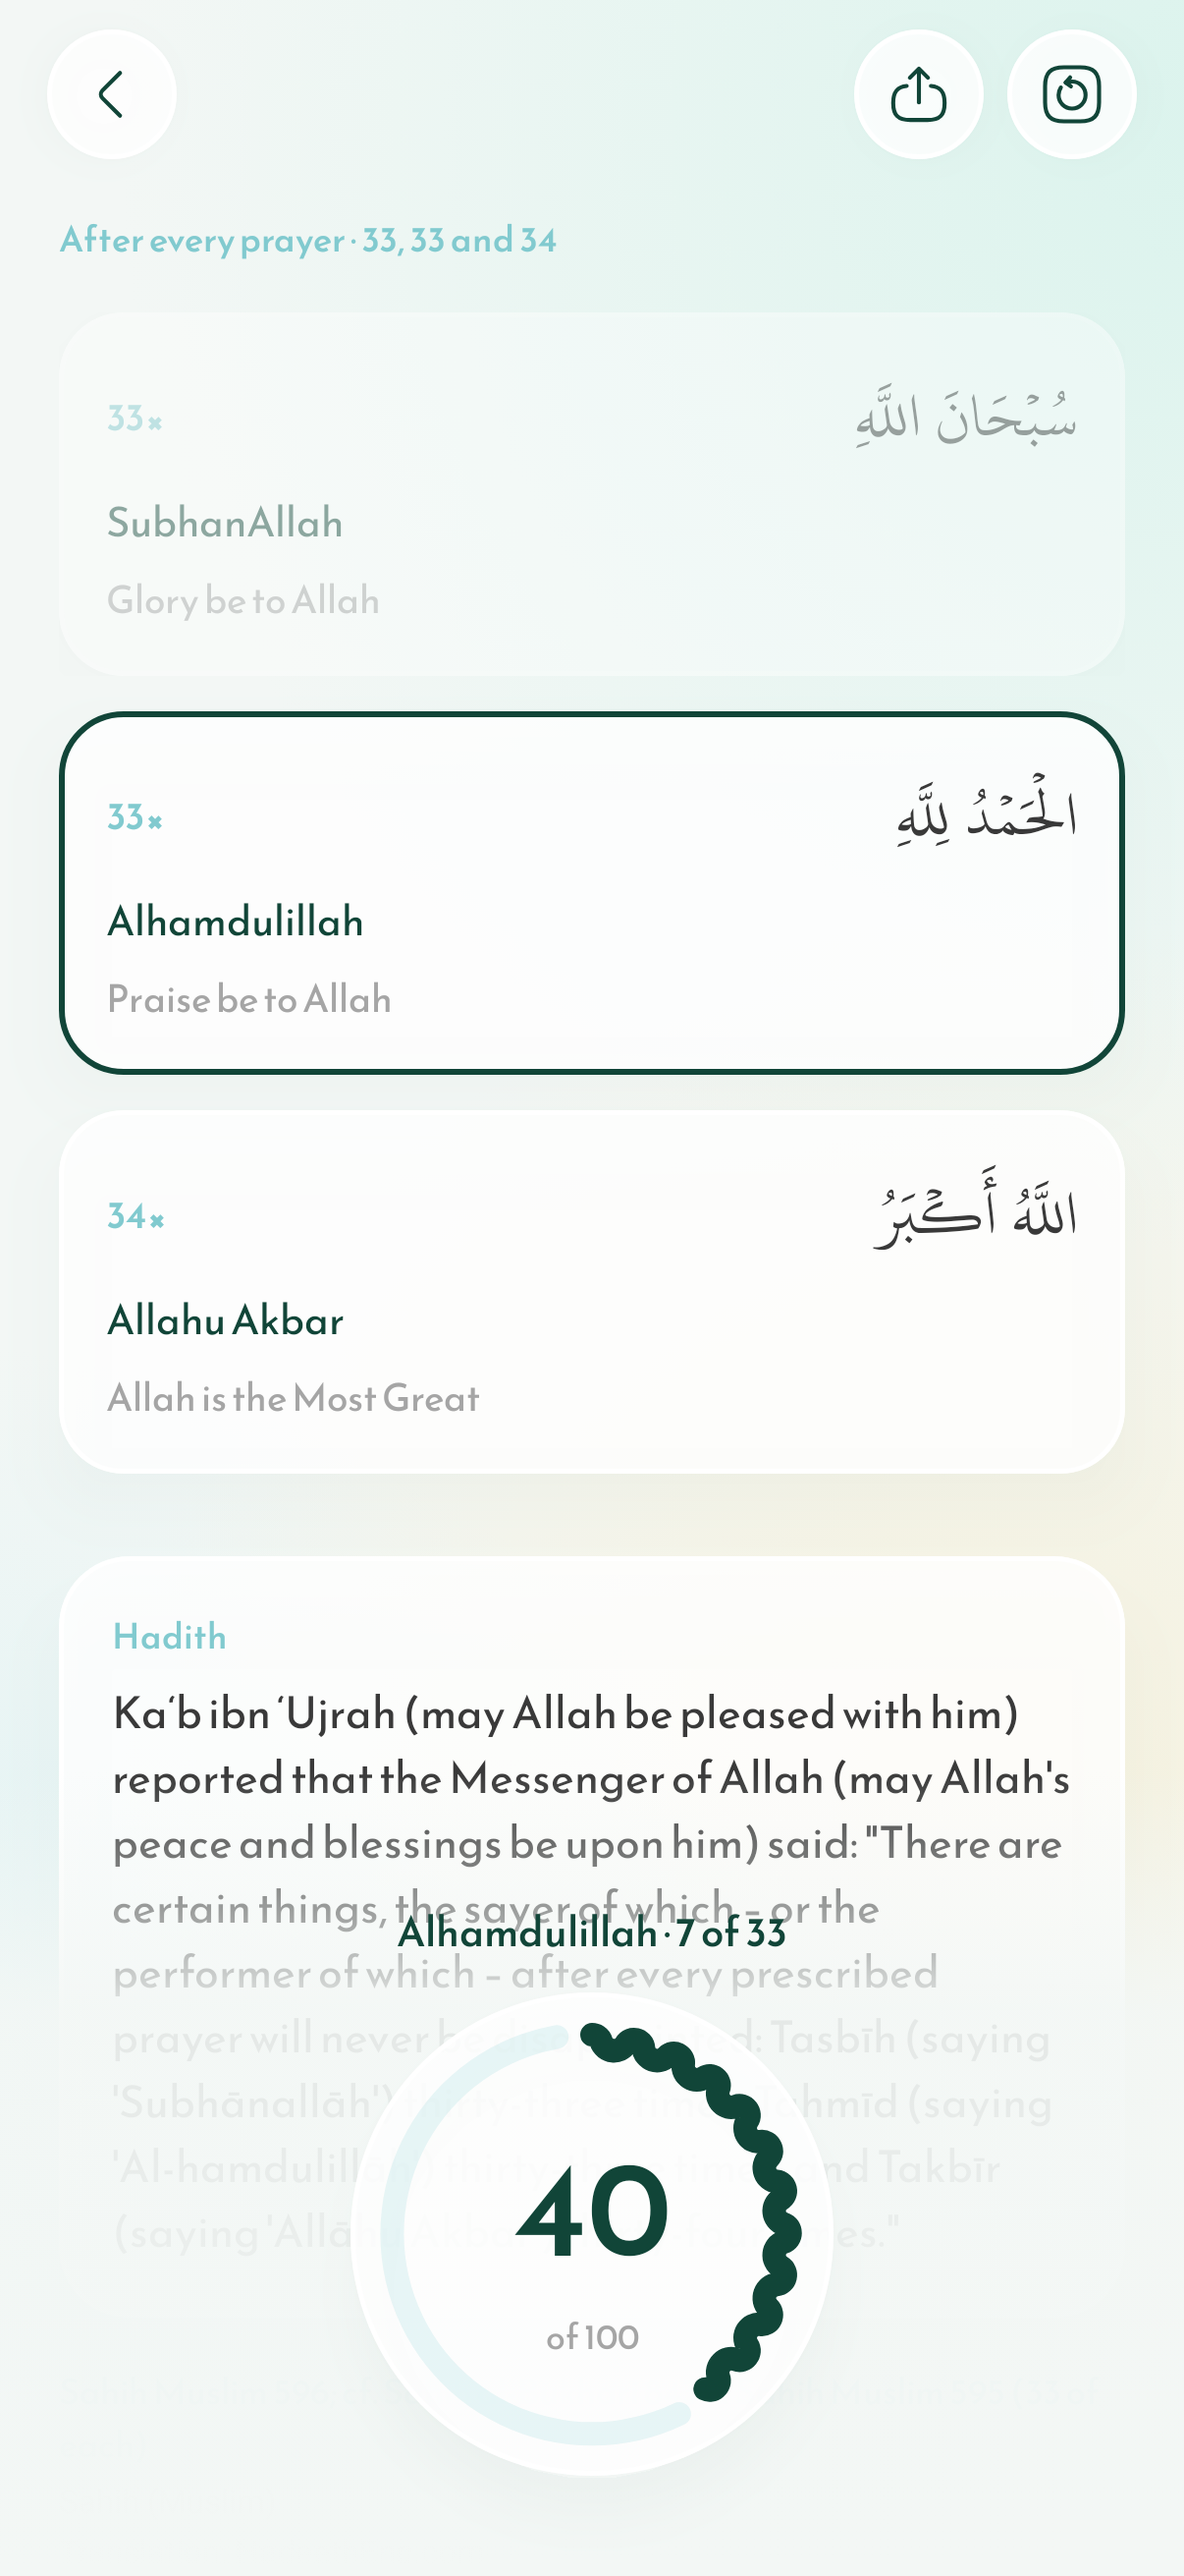
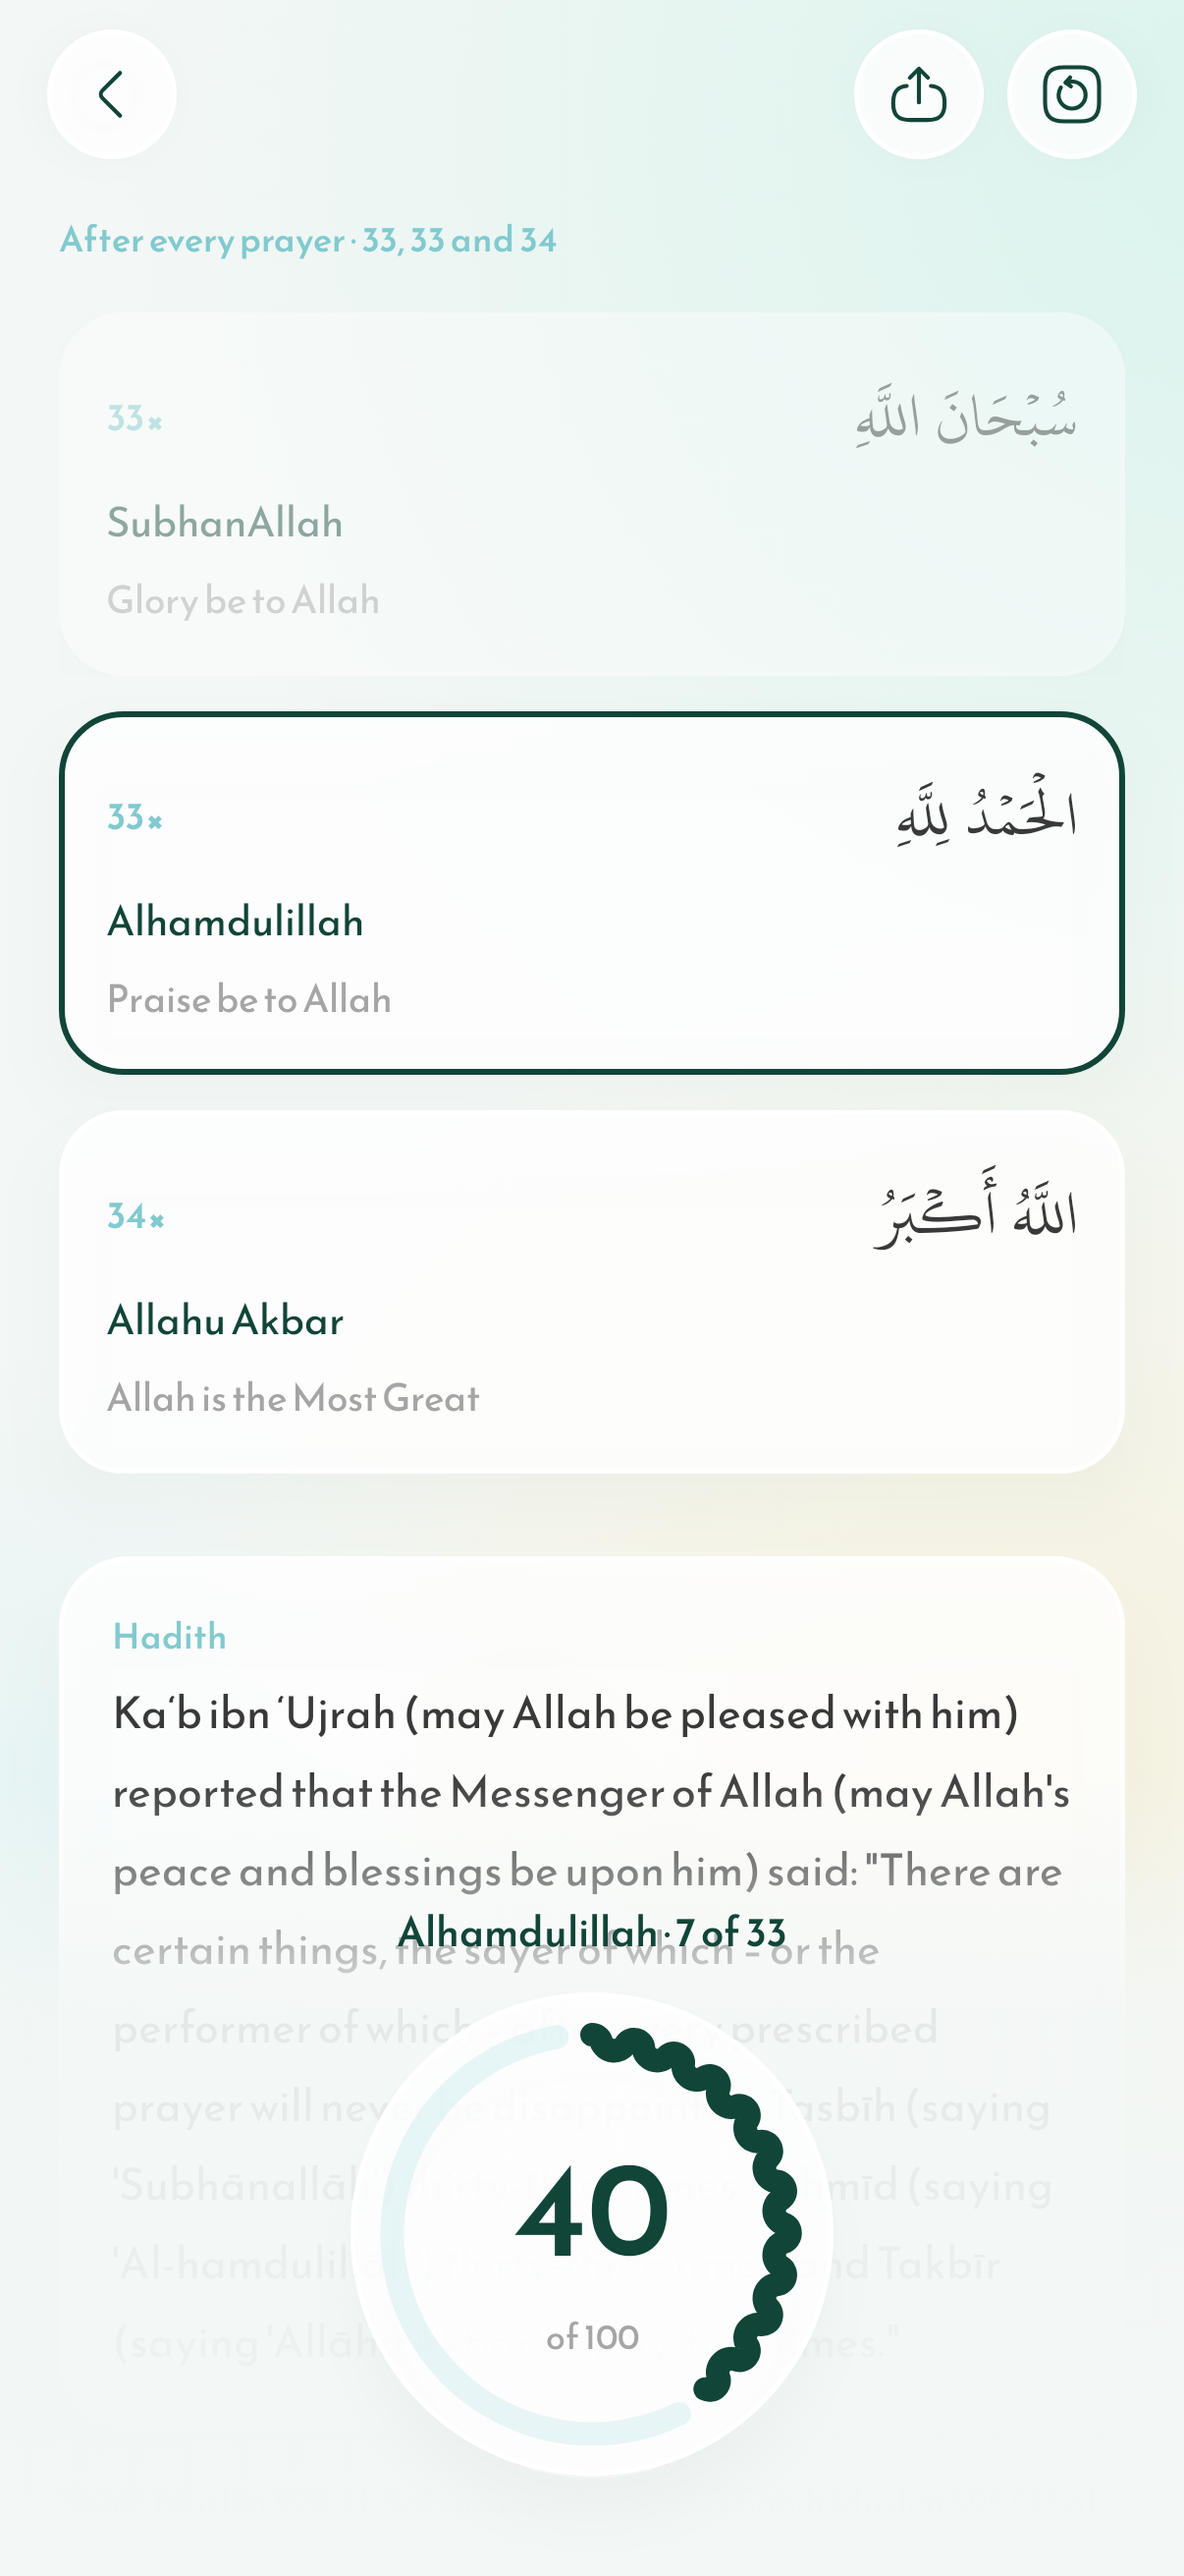
refactor(android): one-line text in the design system; Dikr and Names spaced as on iOS
ArabicText and TranslationText can stop at maxLines with an ellipsis, so the Dikr rows use them instead of
their own copies. The counter, a set's steps, the Name card and the Names hadith pass the line spacing
their iOS views set.

Changed region(s): [[0.092, 0.6796, 0.9204, 0.7723]]

diff --git a/androidApp/src/main/kotlin/com/muttaqi/android/feature/dhikr/DhikrListScreen.kt b/androidApp/src/main/kotlin/com/muttaqi/android/feature/dhikr/DhikrListScreen.kt
@@ -26,15 +26,19 @@ import androidx.compose.ui.graphics.Color
 import androidx.compose.ui.semantics.clearAndSetSemantics
 import androidx.compose.ui.semantics.contentDescription
 import androidx.compose.ui.semantics.stateDescription
+import androidx.compose.ui.text.style.TextAlign
 import androidx.compose.ui.unit.dp
 import androidx.compose.ui.unit.sp
 import androidx.lifecycle.compose.collectAsStateWithLifecycle
 import com.muttaqi.android.designsystem.MuttaqiTheme
+import com.muttaqi.android.designsystem.component.ArabicText
 import com.muttaqi.android.designsystem.component.PageHeader
 import com.muttaqi.android.designsystem.component.SoftBackdrop
 import com.muttaqi.android.designsystem.component.SoftCard
 import com.muttaqi.android.designsystem.component.SoftChip
 import com.muttaqi.android.designsystem.component.SoftTopBar
+import com.muttaqi.android.designsystem.component.TranslationText
+import com.muttaqi.shared.core.text.isArabicScript
 import com.muttaqi.shared.core.text.quoted
 import com.muttaqi.shared.core.text.sentenceCased
 import com.muttaqi.shared.feature.dhikr.domain.model.Dhikr
@@ -138,9 +142,17 @@ private fun DhikrRow(dhikr: Dhikr, onClick: () -> Unit, modifier: Modifier = Mod
         onClick = onClick,
     ) {
         Column(Modifier.fillMaxWidth().padding(18.dp), verticalArrangement = Arrangement.spacedBy(12.dp)) {
-            SingleLineArabic(dhikr.arabic, fontSize = 21.sp, modifier = Modifier.fillMaxWidth())
+            ArabicText(dhikr.arabic, Modifier.fillMaxWidth(), fontSize = 21.sp, textAlign = TextAlign.Right, lineSpacing = 0.sp, maxLines = 1)
             Row(verticalAlignment = Alignment.CenterVertically, horizontalArrangement = Arrangement.spacedBy(10.dp)) {
-                SingleLineTranslation(caption, fontSize = 12.sp, color = soft.appPrimary, modifier = Modifier.weight(1f))
+                TranslationText(
+                    caption,
+                    Modifier.weight(1f),
+                    fontSize = 12.sp,
+                    color = soft.appPrimary,
+                    textAlign = if (caption.isArabicScript()) TextAlign.Right else TextAlign.Left,
+                    maxLines = 1,
+                    lineSpacing = 0.sp,
+                )
                 dhikr.target?.let { target -> CountPill("$target×") }
             }
         }

diff --git a/androidApp/src/main/kotlin/com/muttaqi/android/designsystem/component/Text.kt b/androidApp/src/main/kotlin/com/muttaqi/android/designsystem/component/Text.kt
@@ -18,6 +18,7 @@ import androidx.compose.ui.text.font.FontFamily
 import androidx.compose.ui.text.style.LineHeightStyle
 import androidx.compose.ui.text.style.TextAlign
 import androidx.compose.ui.text.style.TextDirection
+import androidx.compose.ui.text.style.TextOverflow
 import androidx.compose.ui.text.withStyle
 import androidx.compose.ui.unit.TextUnit
 import androidx.compose.ui.unit.isSpecified
@@ -35,7 +36,8 @@ import com.muttaqi.shared.core.text.quoted
 
 /**
  * Arabic in the Quran font (KFGQPC Hafs), right to left. Marks the font can't draw (Arabic punctuation and the ornate
- * brackets) are set in the system font, as on iOS. `lineSpacing` is the space between lines, as iOS's `lineSpacing`
+ * brackets) are set in the system font, as on iOS. `lineSpacing` is the space between lines, as iOS's `lineSpacing`;
+ * text cut off at `maxLines` ends in an ellipsis
  */
 @Composable
 fun ArabicText(
@@ -45,6 +47,7 @@ fun ArabicText(
     color: Color = MuttaqiTheme.soft.textPrimary,
     textAlign: TextAlign = TextAlign.Center,
     lineSpacing: TextUnit = 10.sp,
+    maxLines: Int = Int.MAX_VALUE,
 ) {
     val annotated = remember(text) {
         buildAnnotatedString {
@@ -62,6 +65,8 @@ fun ArabicText(
         modifier = modifier,
         color = color,
         textAlign = textAlign,
+        maxLines = maxLines,
+        overflow = TextOverflow.Ellipsis,
         style = TextStyle(
             fontFamily = QuranFont,
             fontSize = fontSize,
@@ -75,7 +80,7 @@ fun ArabicText(
 /**
  * A translation in the font and direction of its script: Urdu in Nastaliq, right to left; English in Reem Kufi.
  * `lineSpacing` is the space between lines, as iOS's `lineSpacing`; unset, it's the app's usual 8 for Urdu and 4 for
- * English
+ * English. Text cut off at `maxLines` ends in an ellipsis
  */
 @Composable
 fun TranslationText(
@@ -94,6 +99,7 @@ fun TranslationText(
         color = color,
         textAlign = textAlign,
         maxLines = maxLines,
+        overflow = TextOverflow.Ellipsis,
         style = if (urdu) {
             // One point larger, as on iOS, since Nastaliq reads small for its size
             val size = (fontSize.value + 1).sp

diff --git a/androidApp/src/main/kotlin/com/muttaqi/android/feature/dhikr/DhikrCounterScreen.kt b/androidApp/src/main/kotlin/com/muttaqi/android/feature/dhikr/DhikrCounterScreen.kt
@@ -211,7 +211,7 @@ private fun DhikrText(dhikr: Dhikr, state: DhikrCounterState) {
                         Row(verticalAlignment = Alignment.CenterVertically) {
                             Text("${step.count}×", style = MaterialTheme.typography.labelLarge.copy(fontSize = 13.sp), color = soft.brandTeal)
                             Spacer(Modifier.width(12.dp))
-                            ArabicText(step.arabic, Modifier.weight(1f), fontSize = 22.sp, textAlign = TextAlign.Right)
+                            ArabicText(step.arabic, Modifier.weight(1f), fontSize = 22.sp, textAlign = TextAlign.Right, lineSpacing = 0.sp)
                         }
                         Text(step.transliteration, style = MaterialTheme.typography.bodyMedium.copy(fontSize = 14.sp), color = soft.appPrimary)
                         step.translation?.let { Translated(it.sentenceCased(), 13, soft.textSecondary) }
@@ -248,7 +248,7 @@ private fun Phrase(dhikr: Dhikr, modifier: Modifier = Modifier) {
     SoftCard(modifier, cornerRadius = 26.dp) {
         SelectionContainer {
             Column(Modifier.fillMaxWidth().padding(20.dp)) {
-                ArabicText(dhikr.arabic, Modifier.fillMaxWidth(), fontSize = 28.sp, textAlign = TextAlign.Right)
+                ArabicText(dhikr.arabic, Modifier.fillMaxWidth(), fontSize = 28.sp, textAlign = TextAlign.Right, lineSpacing = 12.sp)
                 Text(dhikr.transliteration, Modifier.padding(top = 20.dp), style = MaterialTheme.typography.bodyMedium, color = soft.appPrimary)
                 dhikr.translation?.let { Box(Modifier.padding(top = 10.dp)) { Translated(it.sentenceCased(), 15, soft.textPrimary) } }
             }

diff --git a/androidApp/src/main/kotlin/com/muttaqi/android/feature/names/NameCard.kt b/androidApp/src/main/kotlin/com/muttaqi/android/feature/names/NameCard.kt
@@ -29,6 +29,7 @@ import com.muttaqi.android.designsystem.component.ArabicText
 import com.muttaqi.android.designsystem.component.SoftArtwork
 import com.muttaqi.android.designsystem.component.SoftCard
 import com.muttaqi.android.designsystem.component.TranslationText
+import com.muttaqi.shared.core.text.isArabicScript
 import com.muttaqi.shared.core.text.sentenceCased
 import com.muttaqi.shared.feature.names.domain.model.AllahName
 
@@ -57,14 +58,18 @@ fun NameCard(name: AllahName, modifier: Modifier = Modifier, minHeight: Dp = 300
                 style = TextStyle(fontFamily = ReemKufi, fontSize = 90.sp),
             )
             Column(Modifier.padding(horizontal = 20.dp, vertical = 48.dp), horizontalAlignment = Alignment.CenterHorizontally) {
-                ArabicText(name.arabic, fontSize = 40.sp)
+                ArabicText(name.arabic, fontSize = 40.sp, lineSpacing = 0.sp)
                 Text(
                     name.transliteration,
                     Modifier.padding(top = 12.dp),
                     style = MaterialTheme.typography.titleMedium.copy(fontWeight = FontWeight.Medium),
                     color = soft.appPrimary,
                 )
-                TranslationText(name.meaning.sentenceCased(), Modifier.padding(top = 10.dp))
+                TranslationText(
+                    name.meaning.sentenceCased(),
+                    Modifier.padding(top = 10.dp),
+                    lineSpacing = if (name.meaning.isArabicScript()) 6.sp else 2.sp,
+                )
             }
             Box(
                 Modifier

diff --git a/androidApp/src/main/kotlin/com/muttaqi/android/feature/names/NamesScreen.kt b/androidApp/src/main/kotlin/com/muttaqi/android/feature/names/NamesScreen.kt
@@ -173,7 +173,7 @@ fun NamesScreen(
                                 horizontalAlignment = Alignment.CenterHorizontally,
                                 verticalArrangement = Arrangement.spacedBy(6.dp),
                             ) {
-                                TranslationText(hadith.text, color = soft.textSecondary, textAlign = TextAlign.Center)
+                                TranslationText(hadith.text, color = soft.textSecondary, textAlign = TextAlign.Center, lineSpacing = 0.sp)
                                 Text(hadith.source, style = MaterialTheme.typography.labelSmall, color = soft.brandTeal)
                             }
                         }

diff --git a/MIGRATION.md b/MIGRATION.md
@@ -30,6 +30,10 @@ its structure, naming and patterns for every feature.
   icons, using `designsystem/component/` (SoftCard, SoftBackdrop, SoftChip, SoftIconButton, SoftSearchField,
   SoftTopBar, ArabicText, TranslationText, PageHeader). Add a component there only if it's generic; otherwise keep it in
   your feature. Arabic and Urdu align with `TextAlign.Right` (in right-to-left text `End` is the left edge).
+  `ArabicText` and `TranslationText` take `lineSpacing` (SwiftUI's `.lineSpacing`: pass what the iOS view sets, `0.sp`
+  where it sets none) and `maxLines` (cut off with an ellipsis, as iOS's `.lineLimit`). A segmented control is
+  Material's connected button group (`ToggleButton` with `ButtonGroupDefaults.connected…ButtonShapes()`), as on the
+  topic page.
 - **Stored data carries over.** Use the same keys and formats as the Swift code (`NSUserDefaults.standardUserDefaults`
   on iOS through multiplatform-settings), so nothing a user saved is lost. If stored data can't be read in place
   (SwiftData), migrate it once on first launch, and say how in the PR.
